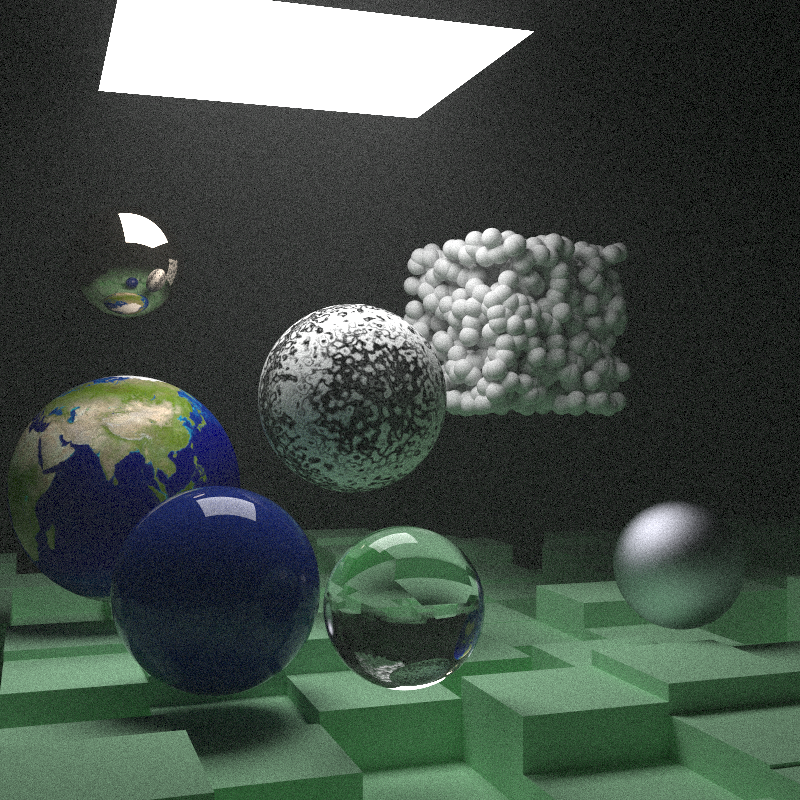
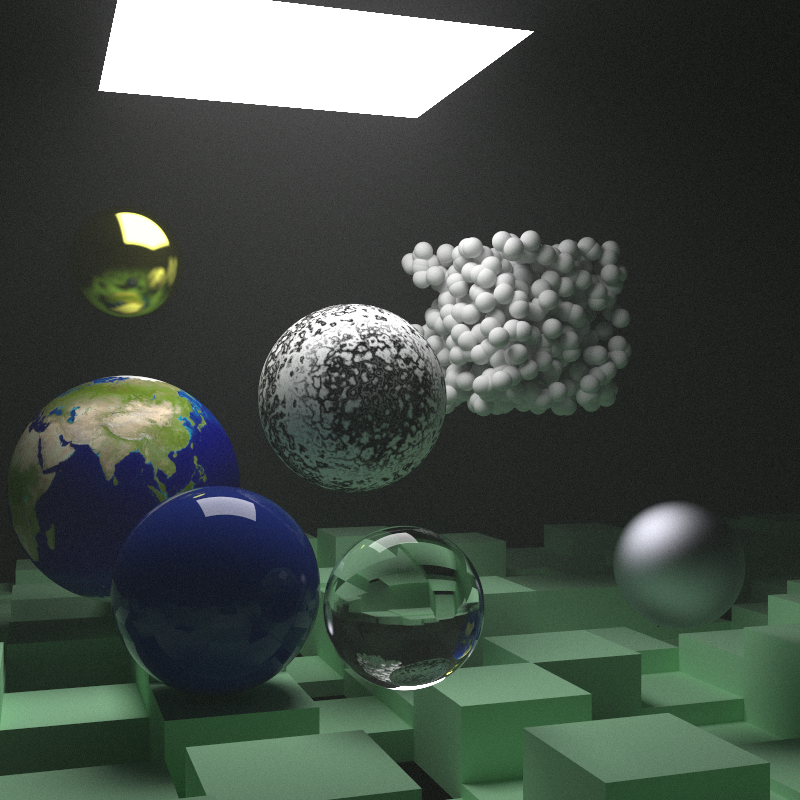
Updated final scene img

diff --git a/src/scene.rs b/src/scene.rs
@@ -367,9 +367,9 @@ impl FinalScene {
         let center_chrome = Point3::new(400., 400., 400.);
         let material_chrome = Metal::new(
             Rc::new(SolidColor {
-                color: Color::new(0.8, 0.15, 0.15),
+                color: Color::new(0.8, 0.8, 0.15),
             }),
-            0.0,
+            0.2,
         );
         let sphere_chrome = Sphere::new(center_chrome, radius_chrome, Rc::new(material_chrome));
         world.add(Box::new(sphere_chrome));
